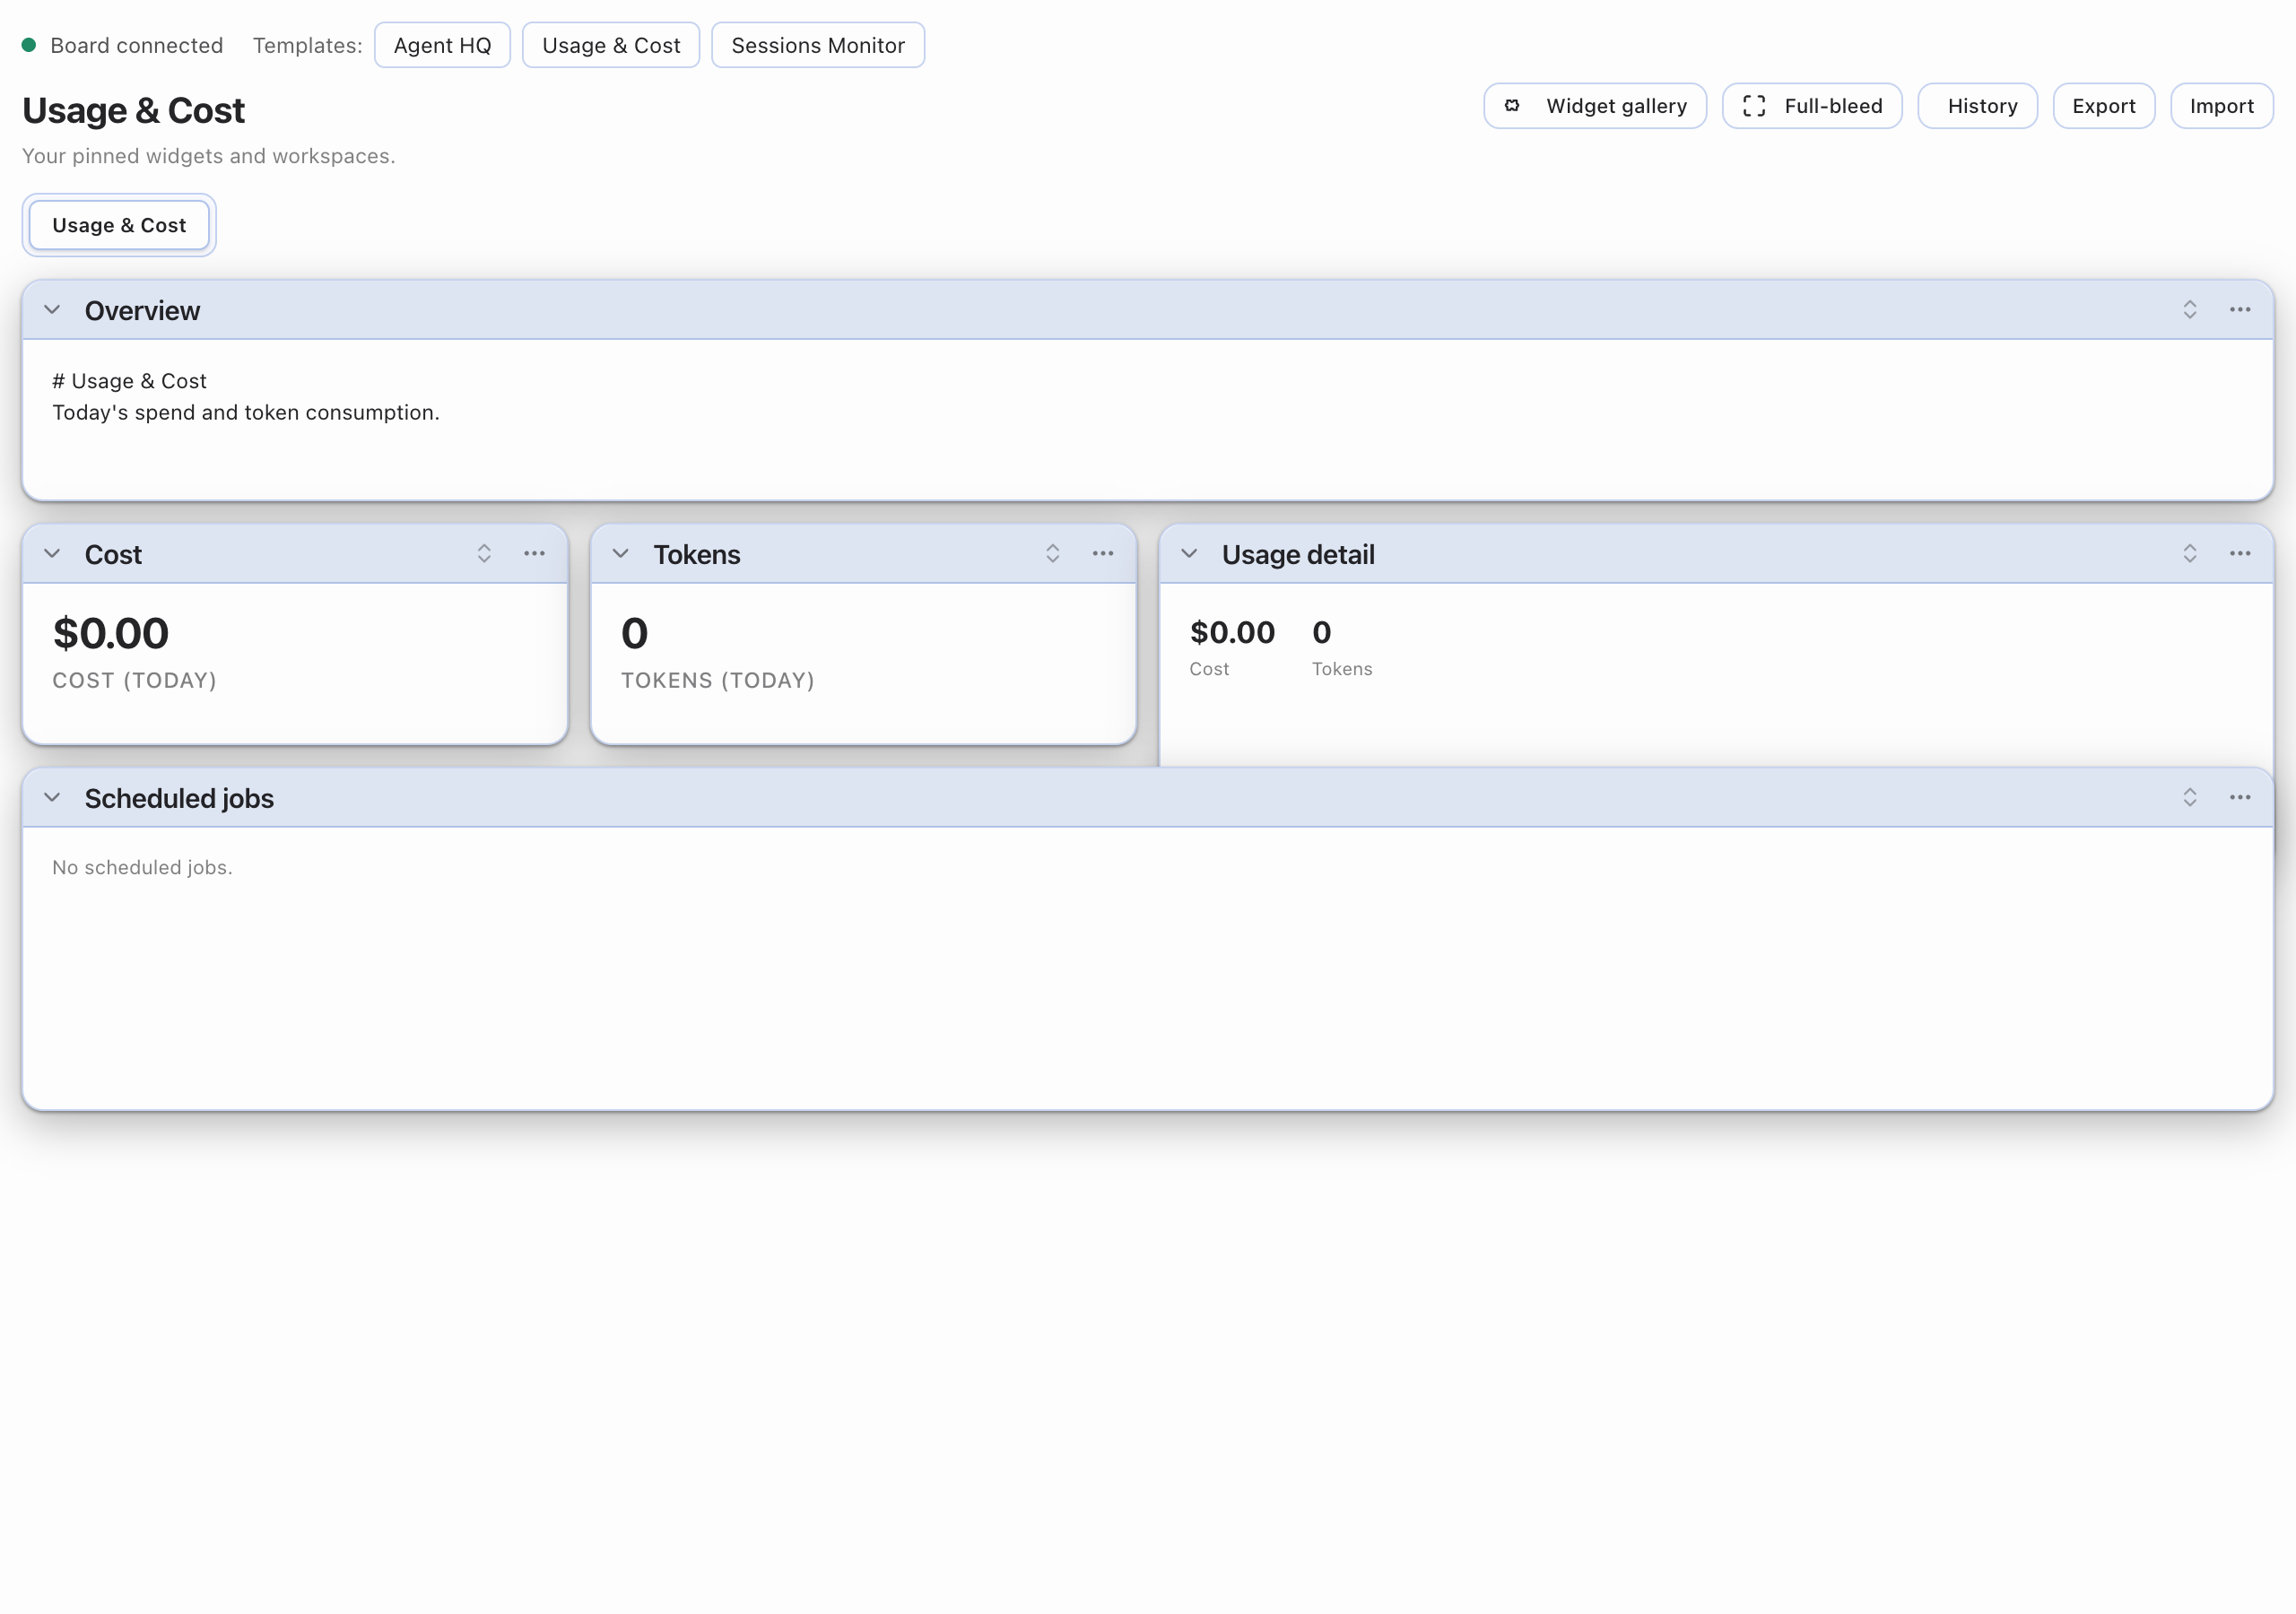
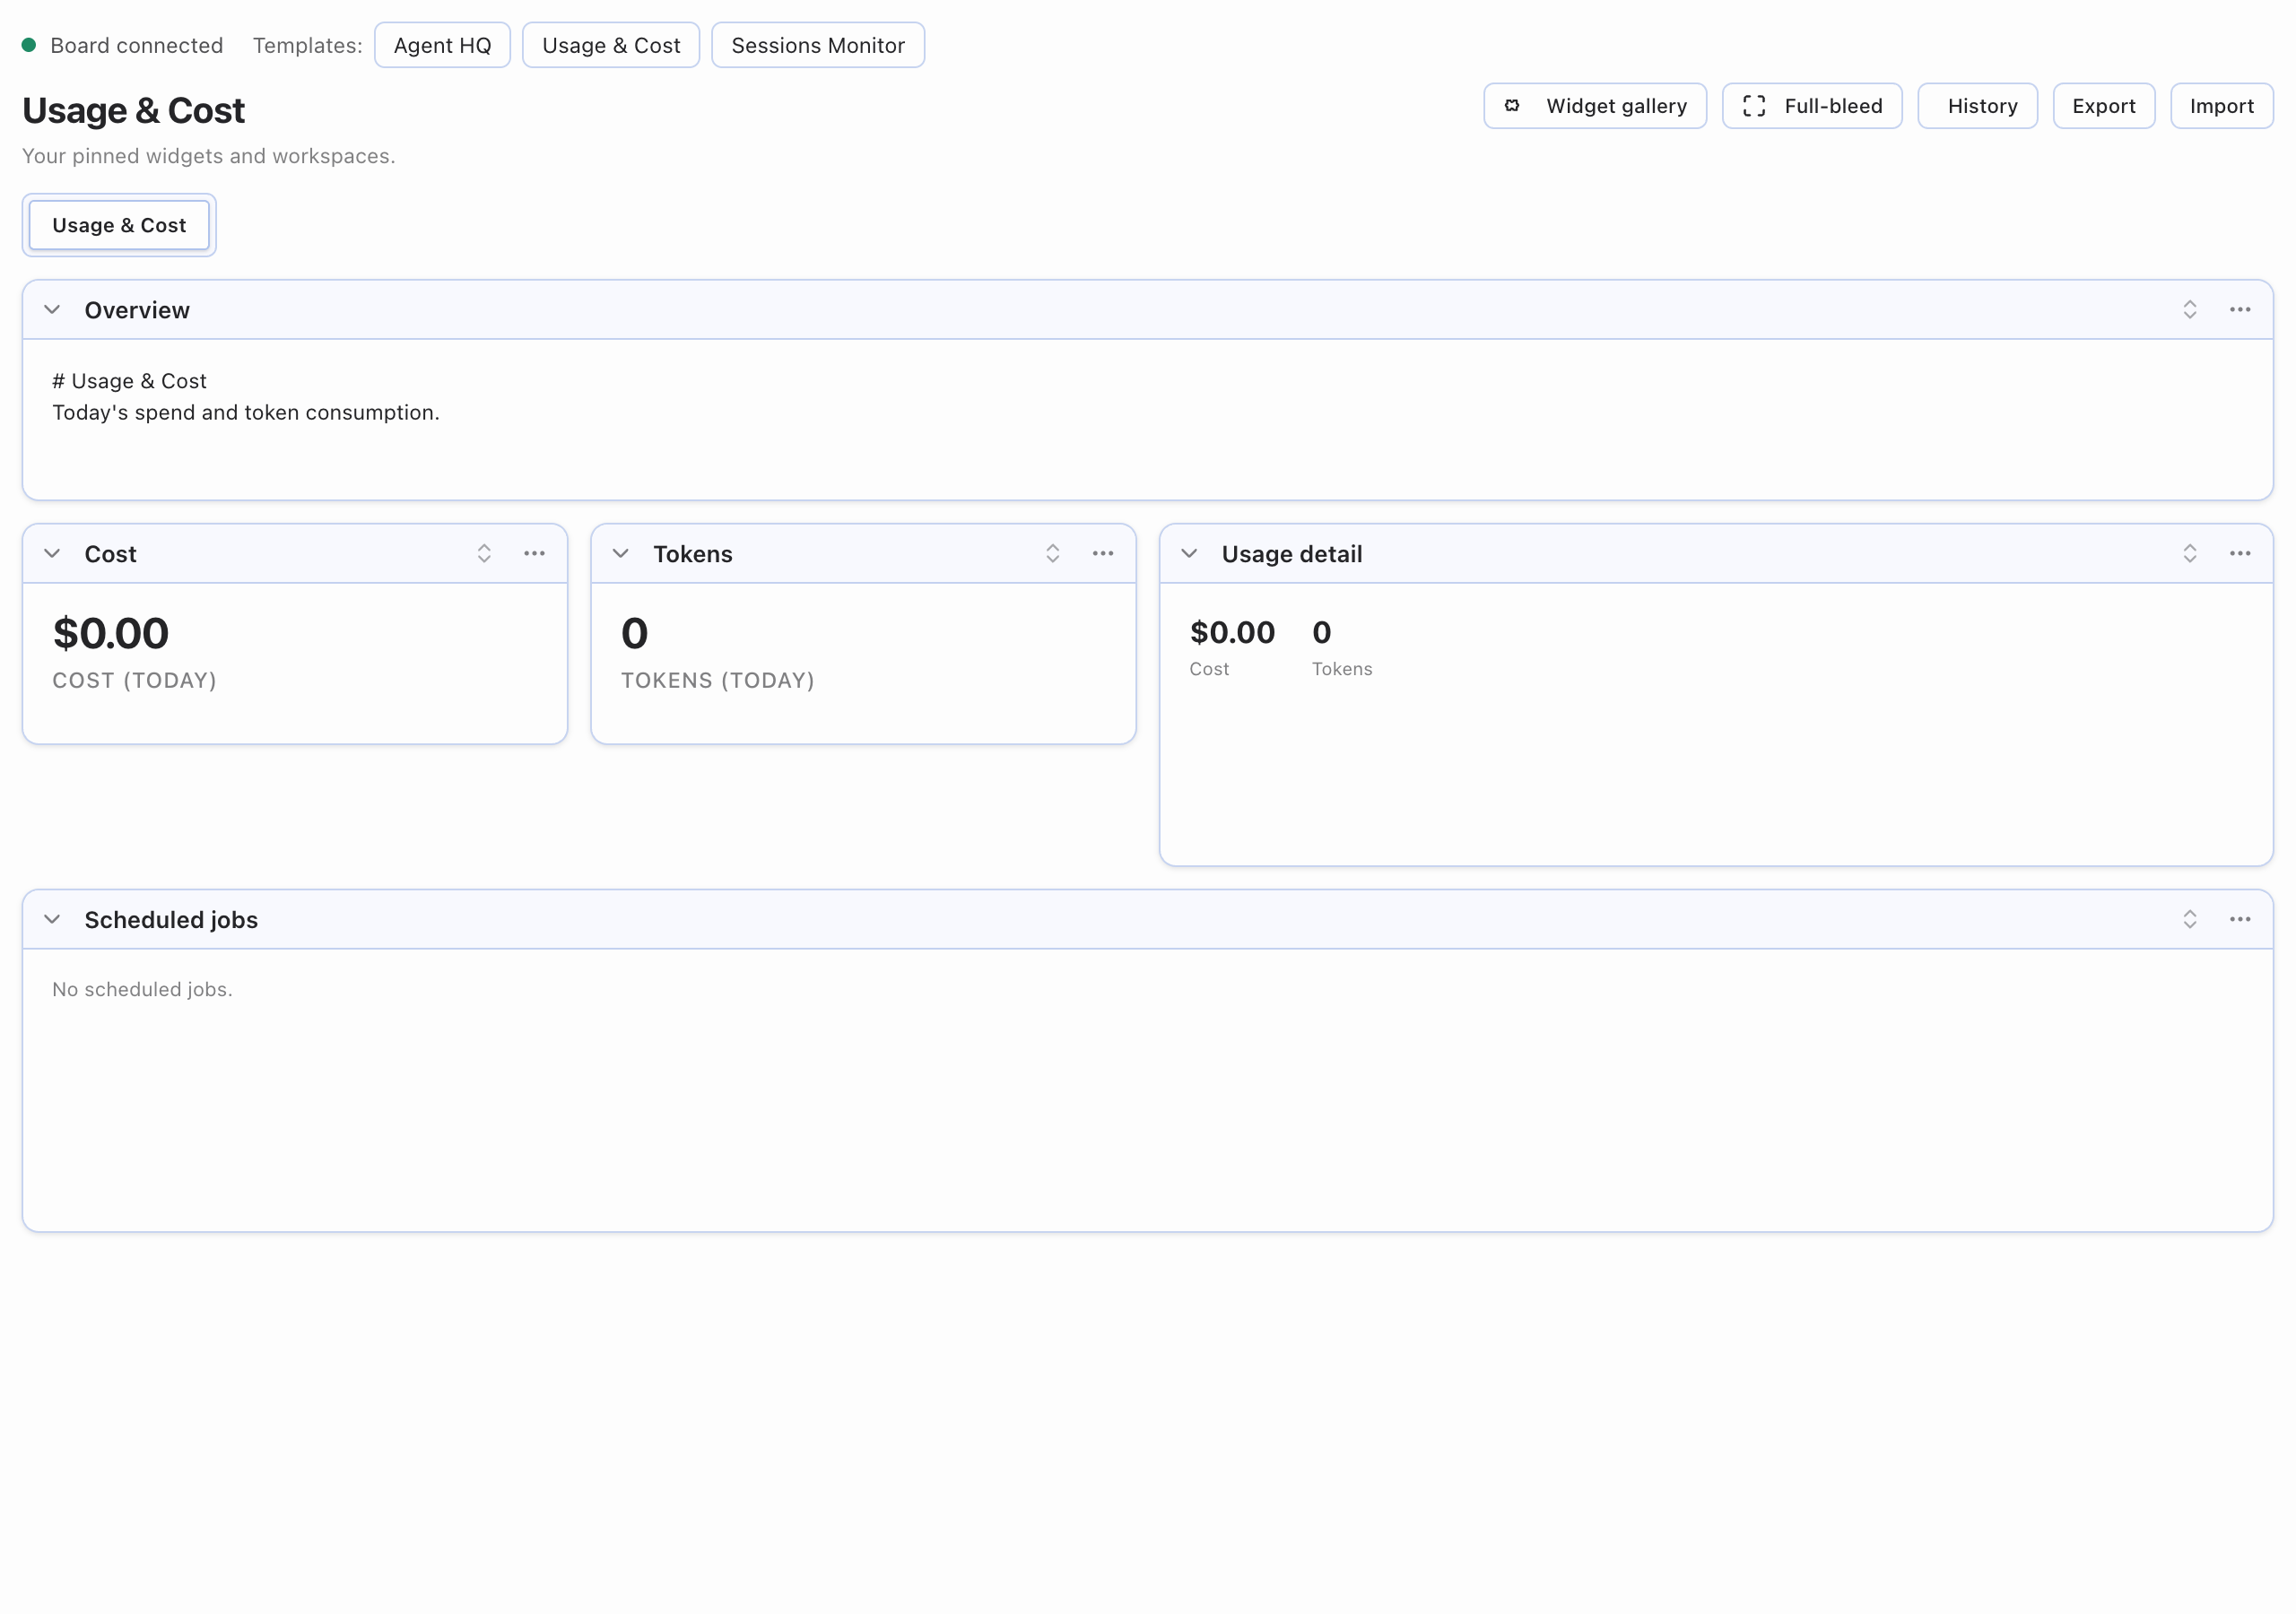
H6: template overlap fix + v1.2.0 packaging (media, CHANGELOG)
- usage-cost template: cron row y4→y5 (usage-detail h3 from y2 overlapped it by one
  row — masked by the old heavy shadows, visible in the flat skin)
- refresh feature media to the skinned look (web usage/agent-hq + desktop)
- CHANGELOG 1.2.0 + version bump (package.json, manifest.json)

Changed region(s): [[0.0, 0.1556, 1.0, 0.7156]]

diff --git a/dashboard/desktop/plugin.js b/dashboard/desktop/plugin.js
@@ -3825,7 +3825,7 @@ boardstate-view .bs-btn {
 }
 `;var bn={"--bs-bg":["--ui-surface-background","--ui-bg-editor"],"--bs-bg-hover":["--ui-row-hover-background","--ui-control-hover-background"],"--bs-bg-muted":["--ui-bg-chrome","--ui-bg-tertiary"],"--bs-surface-muted":["--ui-bg-chrome","--ui-bg-tertiary"],"--bs-card":["--ui-bg-elevated","--ui-surface-background"],"--bs-card-highlight":["--ui-row-active-background","--ui-bg-elevated"],"--bs-border":["--ui-stroke-secondary"],"--bs-border-strong":["--ui-stroke-primary"],"--bs-input":["--ui-bg-input","--ui-control-active-background"],"--bs-text":["--ui-text-primary"],"--bs-text-strong":["--ui-text-primary"],"--bs-text-muted":["--ui-text-tertiary"],"--bs-text-dim":["--ui-text-quaternary","--ui-text-tertiary"],"--bs-muted":["--ui-text-tertiary"],"--bs-accent":["--ui-accent"],"--bs-accent-foreground":["--ui-bg-elevated","--ui-surface-background"],"--bs-ring":["--ui-accent"],"--bs-danger":["--ui-red"],"--bs-success":["--ui-green"],"--bs-warning":["--ui-yellow"]};function hn(t){let e=`var(${t[t.length-1]})`;for(let r=t.length-2;r>=0;r--)e=`var(${t[r]}, ${e})`;return e}function $u(t){let e=t.match(/[\d.]+/g);if(!e||e.length<3)return 0;let r=/^\s*color\(/i.test(t)?1:255,[s,n,o]=e.slice(0,3).map(a=>{let i=Number(a)/r;return i<=.03928?i/12.92:Math.pow((i+.055)/1.055,2.4)});return .2126*s+.7152*n+.0722*o}function pn(t){return $u(t)<.4?"dark":"light"}function Fe(t,e,r){return{schemaVersion:1,workspaceVersion:1,widgetsRegistry:{},prefs:{tabOrder:[t]},tabs:[{slug:t,title:e,icon:"layoutDashboard",hidden:!1,createdBy:"system",widgets:r}]}}var He=(t,e,r,s,n,o,a)=>({id:t,kind:"builtin:markdown",title:e,grid:{x:r,y:s,w:n,h:o},collapsed:!1,hidden:!1,props:{markdown:a}}),F=(t,e,r,s,n,o,a,i={})=>({id:t,kind:e,title:r,grid:{x:s,y:n,w:o,h:a},collapsed:!1,hidden:!1,props:i}),gn=[{id:"agent-hq",name:"Agent HQ",summary:"Live operations overview \u2014 usage, sessions, connected instances, and schedules.",doc:Fe("board","Agent HQ",[He("header","Overview",0,0,12,2,`# Agent HQ
 Live operations for this Hermes agent.`),F("usage","builtin:usage","Usage",0,2,4,3),F("instances","builtin:instances","Instances",4,2,4,3),F("sessions","builtin:sessions","Sessions",8,2,4,5),F("cron","builtin:cron","Scheduled jobs",0,5,8,3)])},{id:"usage-cost",name:"Usage & Cost",summary:"Spend and token usage at a glance, with the underlying breakdown.",doc:Fe("board","Usage & Cost",[He("header","Overview",0,0,12,2,`# Usage & Cost
-Today's spend and token consumption.`),F("cost","builtin:stat-card","Cost",0,2,3,2,{metric:"todayCost",format:"usd",label:"Cost (today)"}),F("tokens","builtin:stat-card","Tokens",3,2,3,2,{metric:"todayTokens",format:"int",label:"Tokens (today)"}),F("usage","builtin:usage","Usage detail",6,2,6,3),F("cron","builtin:cron","Scheduled jobs",0,4,12,3)].map(t=>t.id==="cost"||t.id==="tokens"?{...t,bindings:{value:{source:"rpc",method:"usage.status"}}}:t))},{id:"sessions-monitor",name:"Sessions Monitor",summary:"Watch active sessions and connected instances in real time.",doc:Fe("board","Sessions Monitor",[He("header","Overview",0,0,12,2,`# Sessions Monitor
+Today's spend and token consumption.`),F("cost","builtin:stat-card","Cost",0,2,3,2,{metric:"todayCost",format:"usd",label:"Cost (today)"}),F("tokens","builtin:stat-card","Tokens",3,2,3,2,{metric:"todayTokens",format:"int",label:"Tokens (today)"}),F("usage","builtin:usage","Usage detail",6,2,6,3),F("cron","builtin:cron","Scheduled jobs",0,5,12,3)].map(t=>t.id==="cost"||t.id==="tokens"?{...t,bindings:{value:{source:"rpc",method:"usage.status"}}}:t))},{id:"sessions-monitor",name:"Sessions Monitor",summary:"Watch active sessions and connected instances in real time.",doc:Fe("board","Sessions Monitor",[He("header","Overview",0,0,12,2,`# Sessions Monitor
 Active sessions and connected instances.`),F("sessions","builtin:sessions","Sessions",0,2,7,5),F("instances","builtin:instances","Instances",7,2,5,3),F("usage","builtin:usage","Usage",7,5,5,2)])}];import{jsx as _t,jsxs as Ge}from"react/jsx-runtime";var qe=!1;function Ru(){if(qe||document.querySelector("style[data-boardstate]")){qe=!0;return}let t=document.createElement("style");t.setAttribute("data-boardstate",""),t.textContent=`${cn}
 ${un}`,document.head.appendChild(t),qe=!0}function mn(t){let e=getComputedStyle(document.body).backgroundColor||"rgb(0,0,0)";t.setAttribute("data-theme",pn(e));for(let[r,s]of Object.entries(bn))t.style.setProperty(r,hn(s));t.style.setProperty("--bs-radius-lg","var(--radius-xl, 10px)"),t.style.setProperty("--bs-radius-md","0.375rem"),t.style.setProperty("--bs-radius-sm","0.25rem"),t.style.setProperty("--bs-shadow-md","0 1px 3px rgba(0,0,0,0.10)"),t.style.setProperty("--bs-font-sans",getComputedStyle(document.body).fontFamily)}function Iu(){let t=fn(null),e=fn(void 0),[r,s]=Ve("connecting"),[n,o]=Ve(""),[a,i]=Ve(""),l=Tu(async(b,h)=>{let f=e.current;if(f&&window.confirm(`Replace the current board with the "${b}" template?`)){i(b);try{await f.request("dashboard.workspace.replace",{doc:h,actor:"user"})}catch(_){Au.notify?.({kind:"error",message:`Template failed: ${_ instanceof Error?_.message:String(_)}`})}finally{i("")}}},[]);return Su(()=>{Ru();let b=!1,h,f,_;return(async()=>{let w=await window.hermesDesktop?.getConnection?.().catch(()=>null);if(b)return;if(!w){s("error"),o("No desktop gateway connection.");return}if(w.authMode==="oauth"){s("error"),o("The live board needs a local gateway (OAuth remote not yet supported).");return}let v=`${w.baseUrl.replace(/^http/,"ws")}/api/plugins/boardstate/ws?token=${encodeURIComponent(w.token)}`;h=Ze(v),e.current=h,f=document.createElement("boardstate-view"),f.transport=h,f.connected=!0,f.basePath="",mn(f),_=new MutationObserver(()=>f&&mn(f)),_.observe(document.documentElement,{attributes:!0,attributeFilter:["class","style","data-theme"]}),_.observe(document.body,{attributes:!0,attributeFilter:["class","style"]}),f.style.display="block",f.style.height="100%",t.current?.appendChild(f),h.ready.then(()=>!b&&s("live")).catch($=>{b||(s("error"),o($ instanceof Error?$.message:String($)))})})(),()=>{b=!0,_?.disconnect(),e.current=void 0;try{h?.close()}catch{}f&&f.parentNode&&f.parentNode.removeChild(f)}},[]),Ge("div",{style:{display:"flex",flexDirection:"column",height:"100%",gap:8,padding:12},children:[Ge("div",{style:{display:"flex",alignItems:"center",flexWrap:"wrap",gap:8,fontSize:12},children:[_t("span",{style:{width:8,height:8,borderRadius:"50%",background:r==="live"?"var(--ui-green, #6aa84f)":r==="error"?"var(--ui-red, #e06c75)":"var(--ui-yellow, #d0a94f)",display:"inline-block"}}),_t("span",{style:{opacity:.8},children:r==="live"?"Board connected":r==="error"?`Board unavailable${n?`: ${n}`:""}`:"Connecting to board\u2026"}),r==="live"?Ge("span",{style:{display:"flex",alignItems:"center",flexWrap:"wrap",gap:6,marginLeft:8},children:[_t("span",{style:{opacity:.7},children:"Templates:"}),gn.map(b=>_t("button",{type:"button",title:b.summary,disabled:a!=="",onClick:()=>l(b.name,b.doc),style:{cursor:a?"default":"pointer",padding:"3px 10px",borderRadius:6,border:"1px solid var(--ui-stroke-secondary, #2a2a33)",background:a===b.id?"var(--ui-row-active-background, #23232b)":"transparent",color:"inherit",opacity:a&&a!==b.name?.5:1},children:a===b.name?"Applying\u2026":b.name},b.id))]}):null]}),_t("div",{ref:t,style:{flex:1,minHeight:0}})]})}var Pb={id:"boardstate",name:"Board",register(t){t.register({id:"board-route",area:ku,data:{path:"/board"},render:()=>_t(Iu,{})}),t.register({id:"board-nav",area:Eu,data:{path:"/board",label:"Board",codicon:"dashboard"}})}};export{Pb as default};
 /*! Bundled license information:

diff --git a/dashboard/src/templates.ts b/dashboard/src/templates.ts
@@ -79,7 +79,7 @@ export const TEMPLATES: BoardTemplate[] = [
       data("cost", "builtin:stat-card", "Cost", 0, 2, 3, 2, { metric: "todayCost", format: "usd", label: "Cost (today)" }),
       data("tokens", "builtin:stat-card", "Tokens", 3, 2, 3, 2, { metric: "todayTokens", format: "int", label: "Tokens (today)" }),
       data("usage", "builtin:usage", "Usage detail", 6, 2, 6, 3),
-      data("cron", "builtin:cron", "Scheduled jobs", 0, 4, 12, 3),
+      data("cron", "builtin:cron", "Scheduled jobs", 0, 5, 12, 3),
     ].map((w) =>
       // The two stat-cards read live usage; the dedicated builtins self-bind.
       w.id === "cost" || w.id === "tokens"

diff --git a/CHANGELOG.md b/CHANGELOG.md
@@ -3,6 +3,27 @@
 All notable changes to `boardstate-hermes-plugin` are documented here. This project
 adheres to [Semantic Versioning](https://semver.org/).
 
+## 1.2.0
+
+### Changed
+
+- **Per-frontend design skins** (owner feedback: matching the palette isn't matching the
+  design system). The board now speaks each host's own design language, not Boardstate's:
+  - **Web** (matched to the dashboard's native Kanban tiles): flat translucent cards
+    (`--color-card` @ 85%), 0.5rem radius, hairline borders, **no drop shadows**, the
+    host page font, "Rules Expanded" display-font titles, sharp-cornered buttons.
+  - **Desktop** (matched to the app's macOS language): the app's own `--radius-xl`
+    card rounding, subtle single-layer elevation, SF system font, normal-tracking
+    600-weight titles, rounded controls.
+  - Both are token overrides + a small scoped stylesheet with `var()` fallbacks, so a
+    non-Hermes host degrades to the stock Boardstate look. CI: `test/skin-web.mjs` +
+    extended desktop bundle checks; feature media refreshed to the new look.
+
+### Fixed
+
+- *Usage & Cost* template: the usage-detail widget overlapped the scheduled-jobs row by
+  one grid row (masked by the old heavy shadows, visible in the flat design).
+
 ## 1.1.0
 
 ### Added